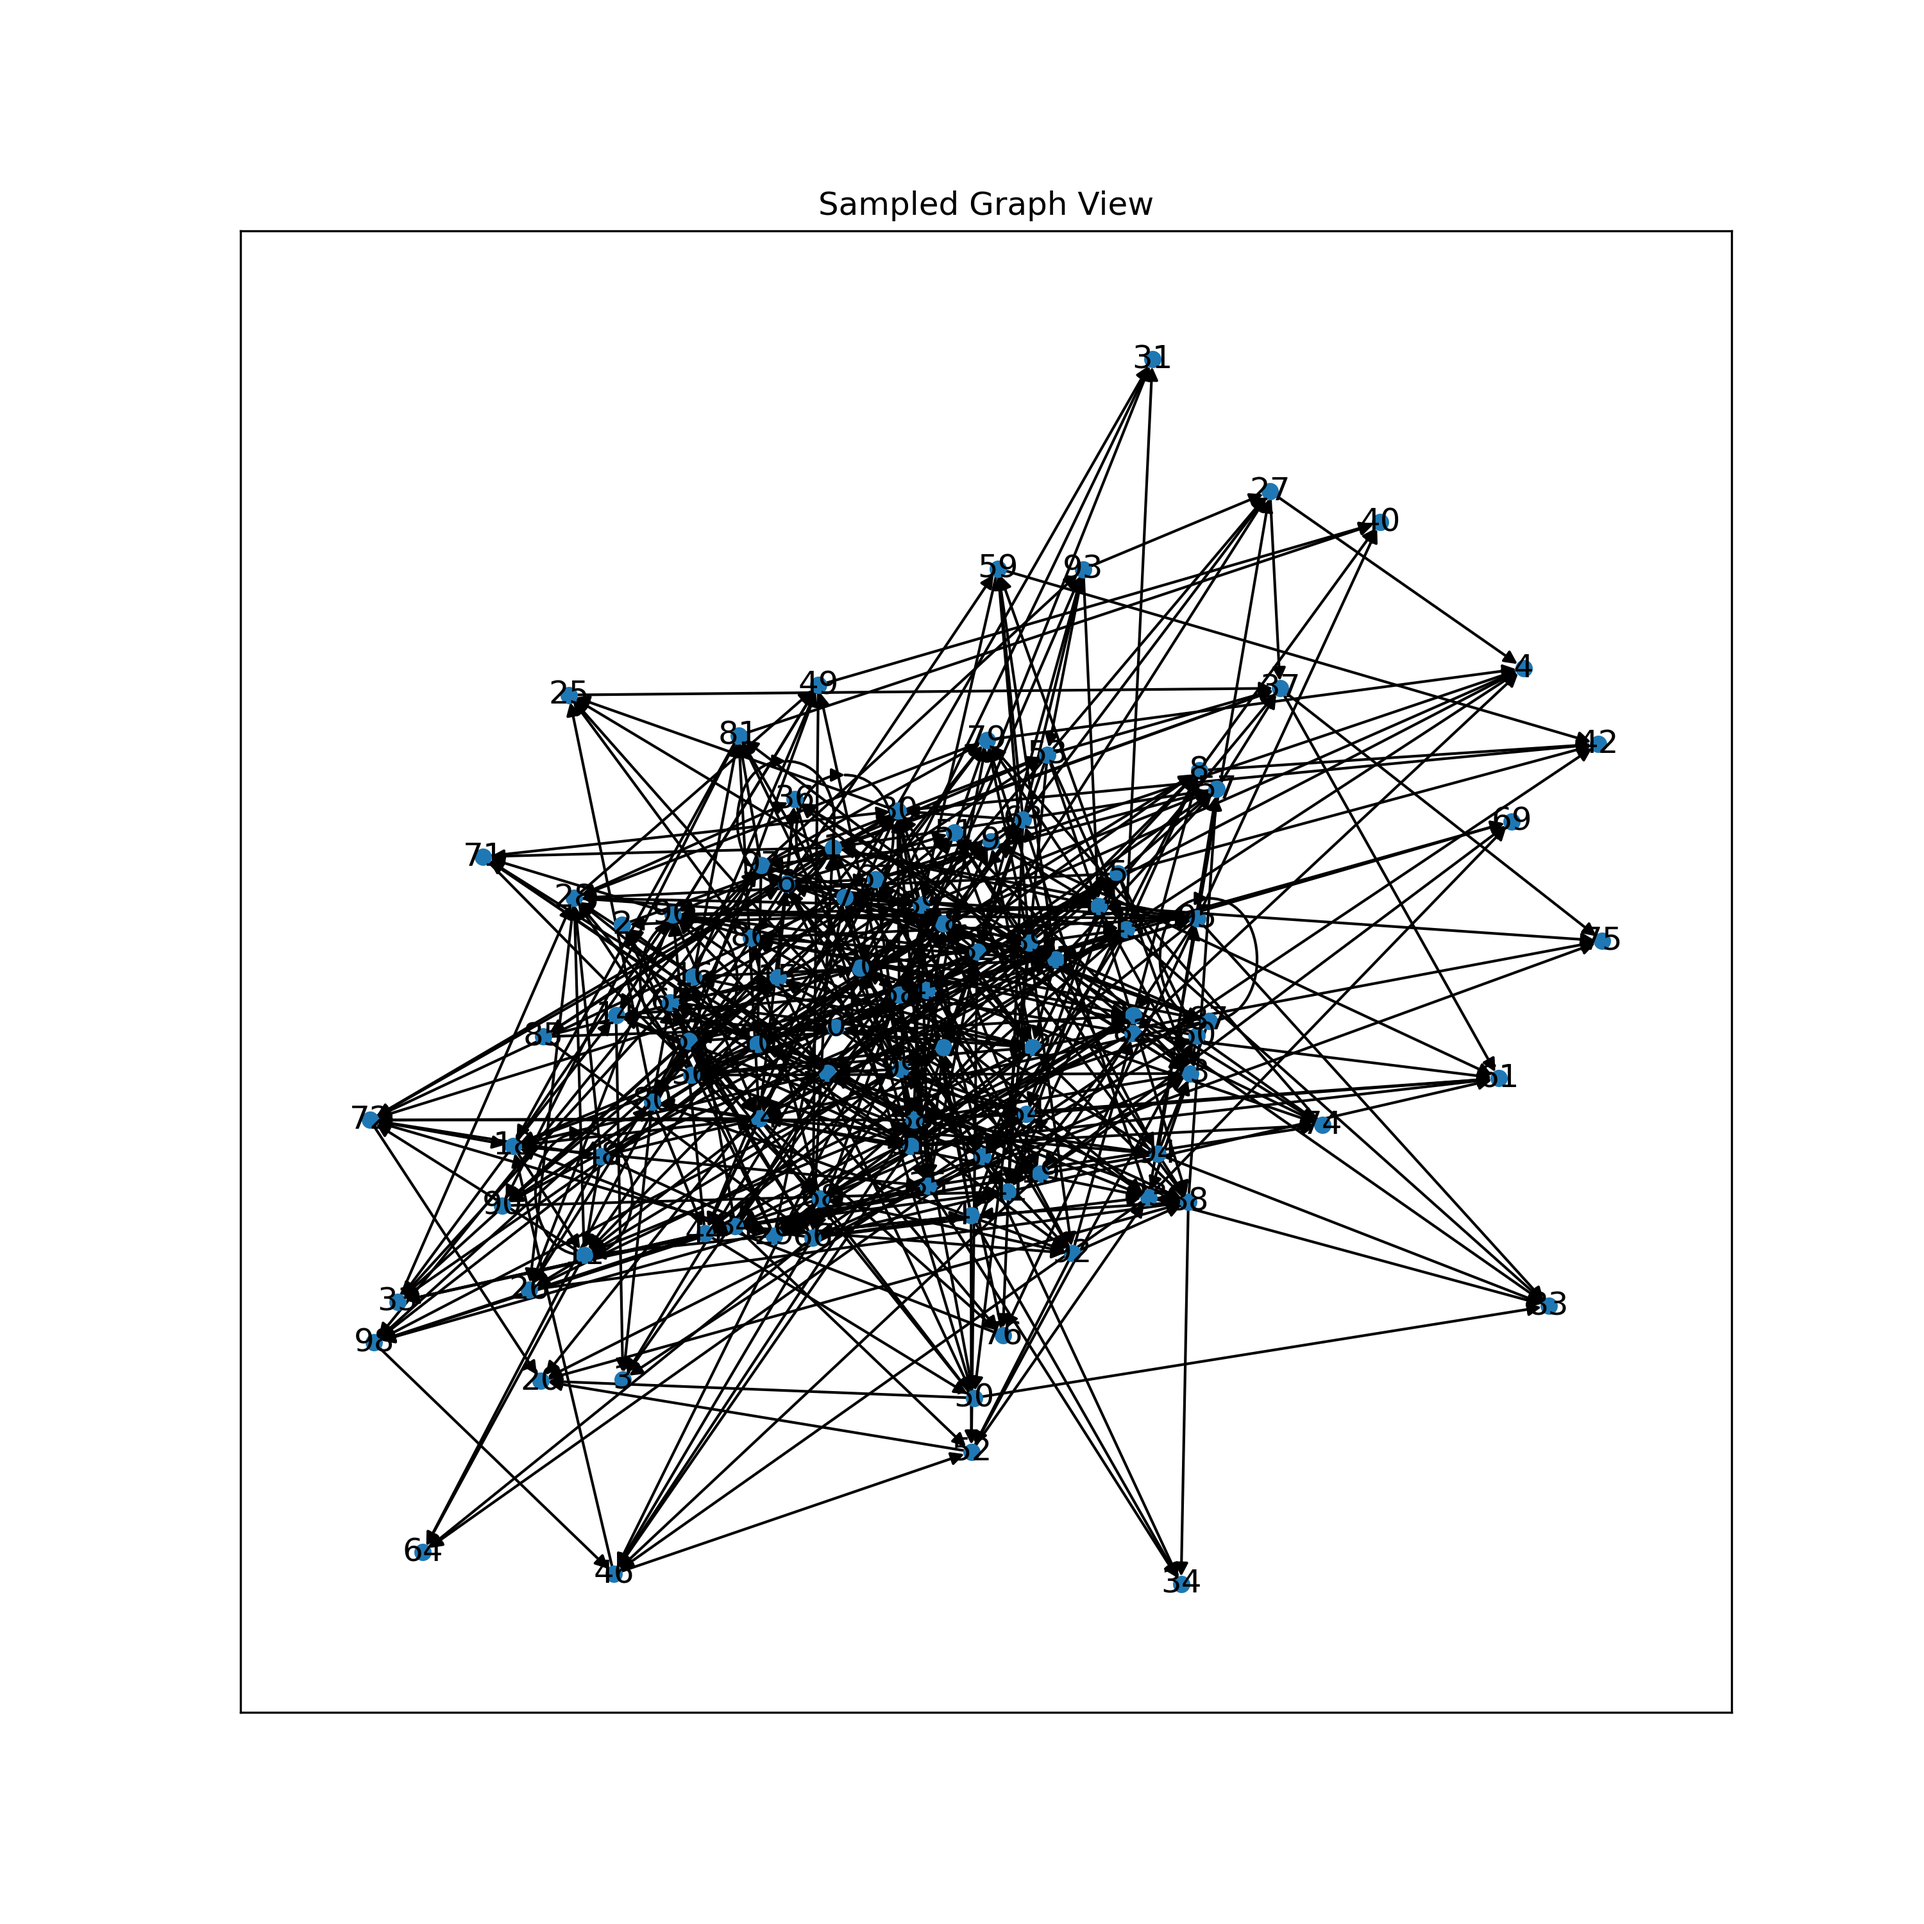
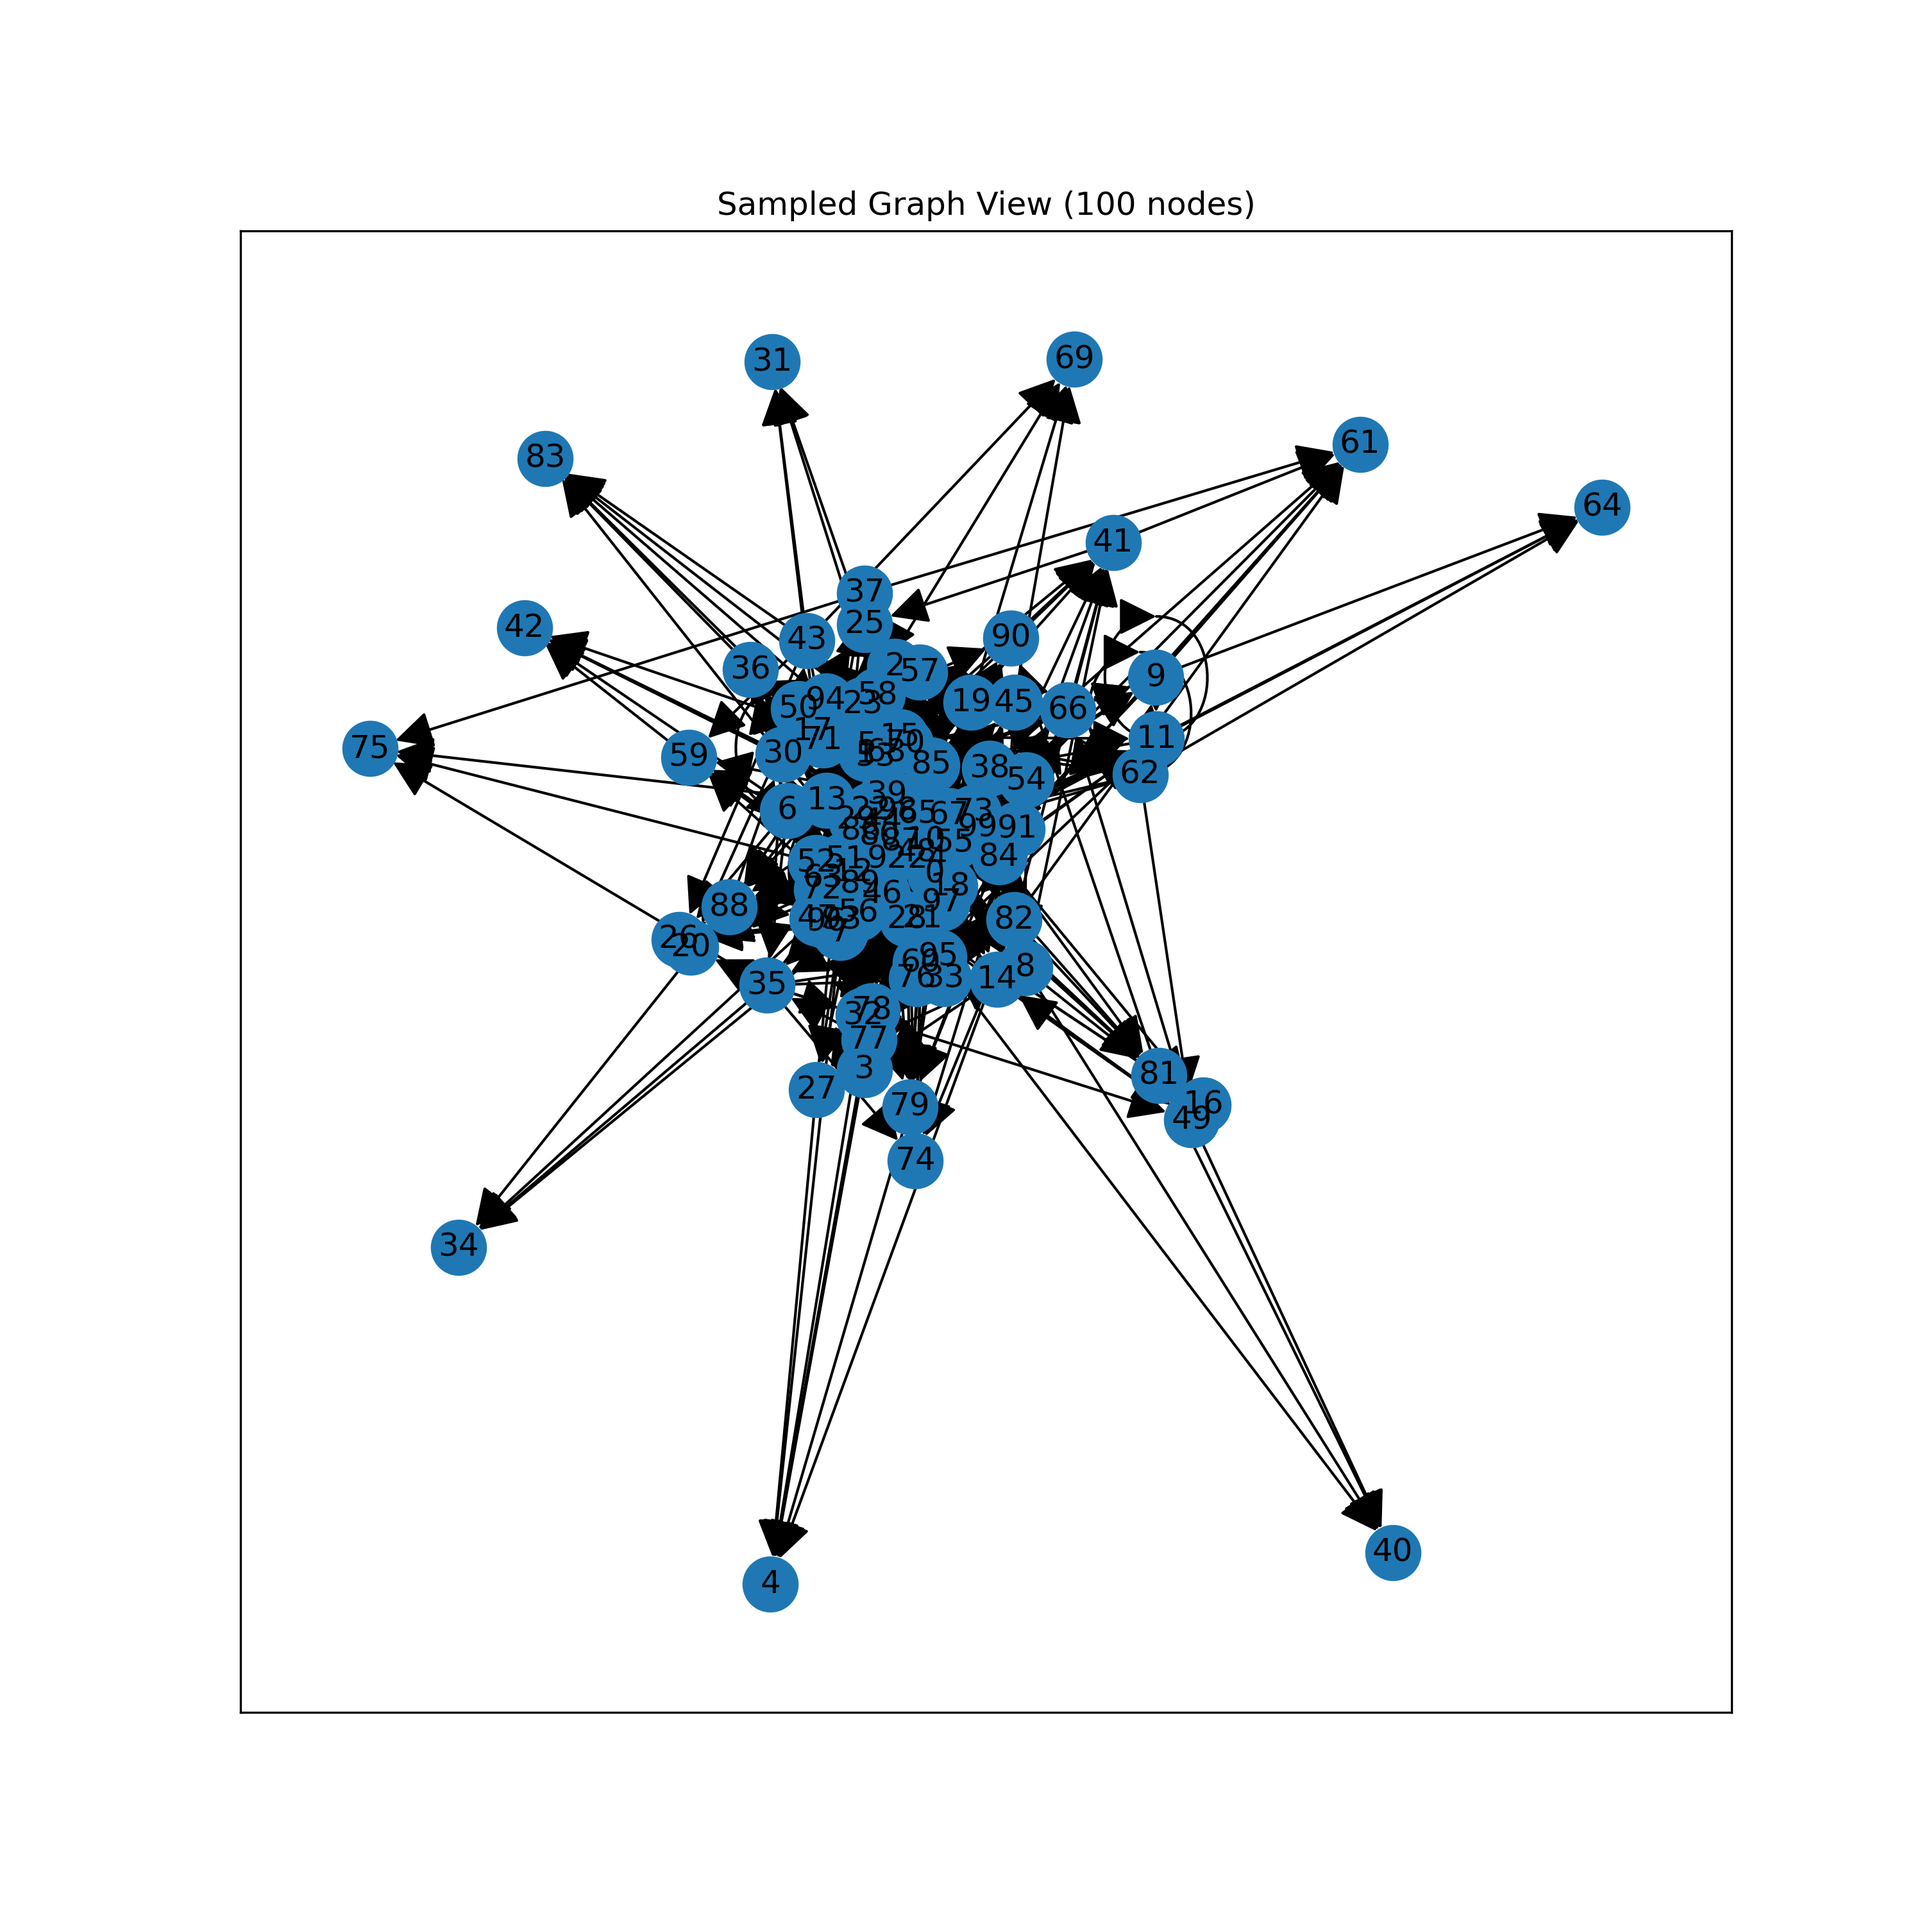
feat: ノードグラフ可視化を見やすく

diff --git a/tutorial/pagerank/preprocess/visualize.py b/tutorial/pagerank/preprocess/visualize.py
@@ -19,10 +19,10 @@ def visualize_graph(load_file: str, save_file: str, sample_nodes: int = -1):
     H = G.subgraph(sampled_nodes)
 
     plt.figure(figsize=(10, 10))
-    nx.draw_networkx(H, node_size=30, arrowsize=10, with_labels=True)
+    nx.draw_networkx(H, node_size=400, arrowsize=30, with_labels=True)
     # pos = nx.spring_layout(H, k=0.5, seed=42)  # レイアウトを調整してばらけさせる
     # nx.draw_networkx(H, pos=pos, node_size=30, arrowsize=10, with_labels=True)
-    plt.title("Sampled Graph View")
+    plt.title(f"Sampled Graph View ({len(sampled_nodes)} nodes)")
     plt.savefig(save_file, dpi=300)
 
 
